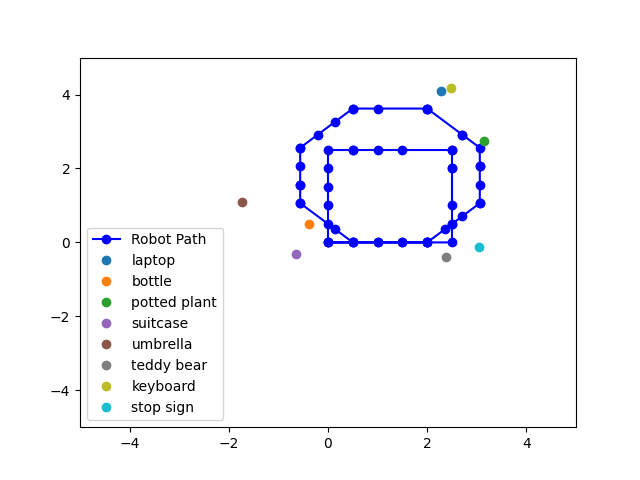
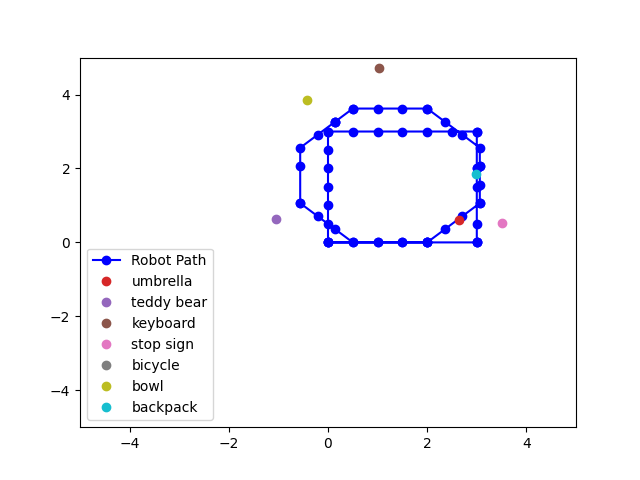
update

diff --git a/rb5_control/src/hw5_square.py b/rb5_control/src/hw5_square.py
@@ -13,7 +13,7 @@
 import matplotlib.pyplot as plt
 import numpy as np
 
-def make_square(object_coords, robot_width=0.17, robot_height=0.20, start_x=0, start_y=0):
+def make_square(object_coords, robot_width, robot_height, start_x, start_y):
     # Extract x and y coordinates
     x_coords = np.array([coord[0] for coord in object_coords])
     y_coords = np.array([coord[1] for coord in object_coords])
@@ -126,7 +126,8 @@ def make_square(object_coords, robot_width=0.17, robot_height=0.20, start_x=0, s
 
     # Save the plot as a PNG file
     plt.savefig("robot_sweeping_path.png")
-    plt.show()
+    print("Path saved.")
+    # plt.show()
 
     # Output dimensions
     print(f"Largest square dimensions: {square_side}m x {square_side}m")
@@ -134,11 +135,11 @@ def make_square(object_coords, robot_width=0.17, robot_height=0.20, start_x=0, s
     print(f"Square coordinates: ({square_start_x}, {square_start_y}) to ({square_end_x}, {square_end_y})")
 
 # Test local with object coordinates
-make_square([(2.2822766304016113, 4.08355188369751, 'laptop'), 
-             (-0.38436222076416016, 0.5081926584243774, 'bottle'), 
-             (3.153132915496826, 2.7433860301971436, 'potted plant'), 
-             (-0.6404055953025818, -0.3099810779094696, 'suitcase'), 
-             (-1.734462022781372, 1.1050945520401, 'umbrella'), 
-             (2.3787856101989746, -0.39087170362472534, 'teddy bear'), 
-             (2.4763317108154297, 4.186304569244385, 'keyboard'), 
-             (3.0441253185272217, -0.12209747731685638, 'stop sign')])
+# make_square([(2.2822766304016113, 4.08355188369751, 'laptop'), 
+#              (-0.38436222076416016, 0.5081926584243774, 'bottle'), 
+#              (3.153132915496826, 2.7433860301971436, 'potted plant'), 
+#              (-0.6404055953025818, -0.3099810779094696, 'suitcase'), 
+#              (-1.734462022781372, 1.1050945520401, 'umbrella'), 
+#              (2.3787856101989746, -0.39087170362472534, 'teddy bear'), 
+#              (2.4763317108154297, 4.186304569244385, 'keyboard'), 
+#              (3.0441253185272217, -0.12209747731685638, 'stop sign')])

diff --git a/rb5_control/src/hw3_slam.py b/rb5_control/src/hw3_slam.py
@@ -61,7 +61,7 @@ class SlamControlNode(Node):
         # self.EKF_predict_pub = self.create_publisher(Float32MultiArray, '/ekf_predict', 10)
 
         
-        self.objects_to_detect = ['laptop', 'bottle', 'potted plant', 'suitcase', 'umbrella', 'teddy bear', 'keyboard', 'stop sign']
+        self.objects_to_detect = ['laptop', 'bottle', 'potted plant', 'suitcase', 'umbrella', 'teddy bear', 'keyboard', 'stop sign', 'bicycle', 'bowl', 'scissors', 'backpack']
         # self.ekf_slam = EKFSLAM(self.objects_to_detect)
         self.fig, self.ax = plt.subplots()
         self.set_plot_limits()
@@ -166,6 +166,9 @@ class SlamControlNode(Node):
         self.ax.plot(*zip(*self.robot_positions[1:]), 'bo-', label="Robot Path")
         
         legend_labels = {"Robot Path": self.ax.plot([], [], 'bo-', label="Robot Path")[0]}
+        x = 0.0
+        y = 0.0
+
         for x, y, name in self.detected_objects[-8:]:
             if x != 0.0 and y != 0.0:
                 color = self.colors(self.objects_to_detect.index(name))
@@ -180,7 +183,10 @@ class SlamControlNode(Node):
         self.save_plot()
         msg = Bool()
         msg.data = True
-        make_square(self.detected_objects[-8:])
+
+        print("\nx and y values:")
+        print(x, y)
+        make_square(self.detected_objects[-8:], 0.17, 0.20, x, y)
         self.done_pub.publish(msg)
 
     def save_plot(self):

diff --git a/rb5_control/src/hw3_move.py b/rb5_control/src/hw3_move.py
@@ -29,11 +29,6 @@ class MovementCommands(Node):
             ['move', 0.5],
             ['move', 0.5],
             ['move', 0.5],
-            ['spin', 90],
-            ['move', 0.5],
-            ['move', 0.5],
-            ['move', 0.5],
-            ['move', 0.5],
             ['move', 0.5],
             ['spin', 90],
             ['move', 0.5],
@@ -41,7 +36,16 @@ class MovementCommands(Node):
             ['move', 0.5],
             ['move', 0.5],
             ['move', 0.5],
+            ['move', 0.5],
             ['spin', 90],
+            ['move', 0.5],
+            ['move', 0.5],
+            ['move', 0.5],
+            ['move', 0.5],
+            ['move', 0.5],
+            ['move', 0.5],
+            ['spin', 90],
+            ['move', 0.5],
             ['move', 0.5],
             ['move', 0.5],
             ['move', 0.5],

diff --git a/rb5_ros2_vision/launch/yolo_detection_node.py b/rb5_ros2_vision/launch/yolo_detection_node.py
@@ -19,14 +19,18 @@ class YoloDetectionNode(Node):
 
         # Objects to detect and their known widths (in meters)
         self.objects_to_detect = {
-            'laptop': 0.35,
+            'laptop': 0.36,
             'bottle': 0.05,
             'potted plant': 0.15,
             'suitcase': 0.3,
             'umbrella': 1.0,
             'teddy bear': 0.2,
             'keyboard': 0.4,
-            'stop sign': 0.2
+            'stop sign': 0.2,
+            'bicycle': 1.47,
+            'bowl': 0.3,
+            'scissors': 0.1,
+            'backpack': 0.38
         }
 
         # Load YOLOv8 model

diff --git a/rb5_control/src/hw3_ekf.py b/rb5_control/src/hw3_ekf.py
@@ -219,7 +219,7 @@ class EKFSLAM(Node):
     
 def main(args=None):
     rclpy.init(args=args)
-    node = EKFSLAM(object_list=['laptop', 'bottle', 'potted plant', 'suitcase', 'umbrella', 'teddy bear', 'keyboard', 'stop sign'])
+    node = EKFSLAM(object_list=['laptop', 'bottle', 'potted plant', 'suitcase', 'umbrella', 'teddy bear', 'keyboard', 'stop sign', 'bicycle', 'bowl', 'scissors', 'backpack'])
     print("EKF running...")
     try:
         rclpy.spin(node)
